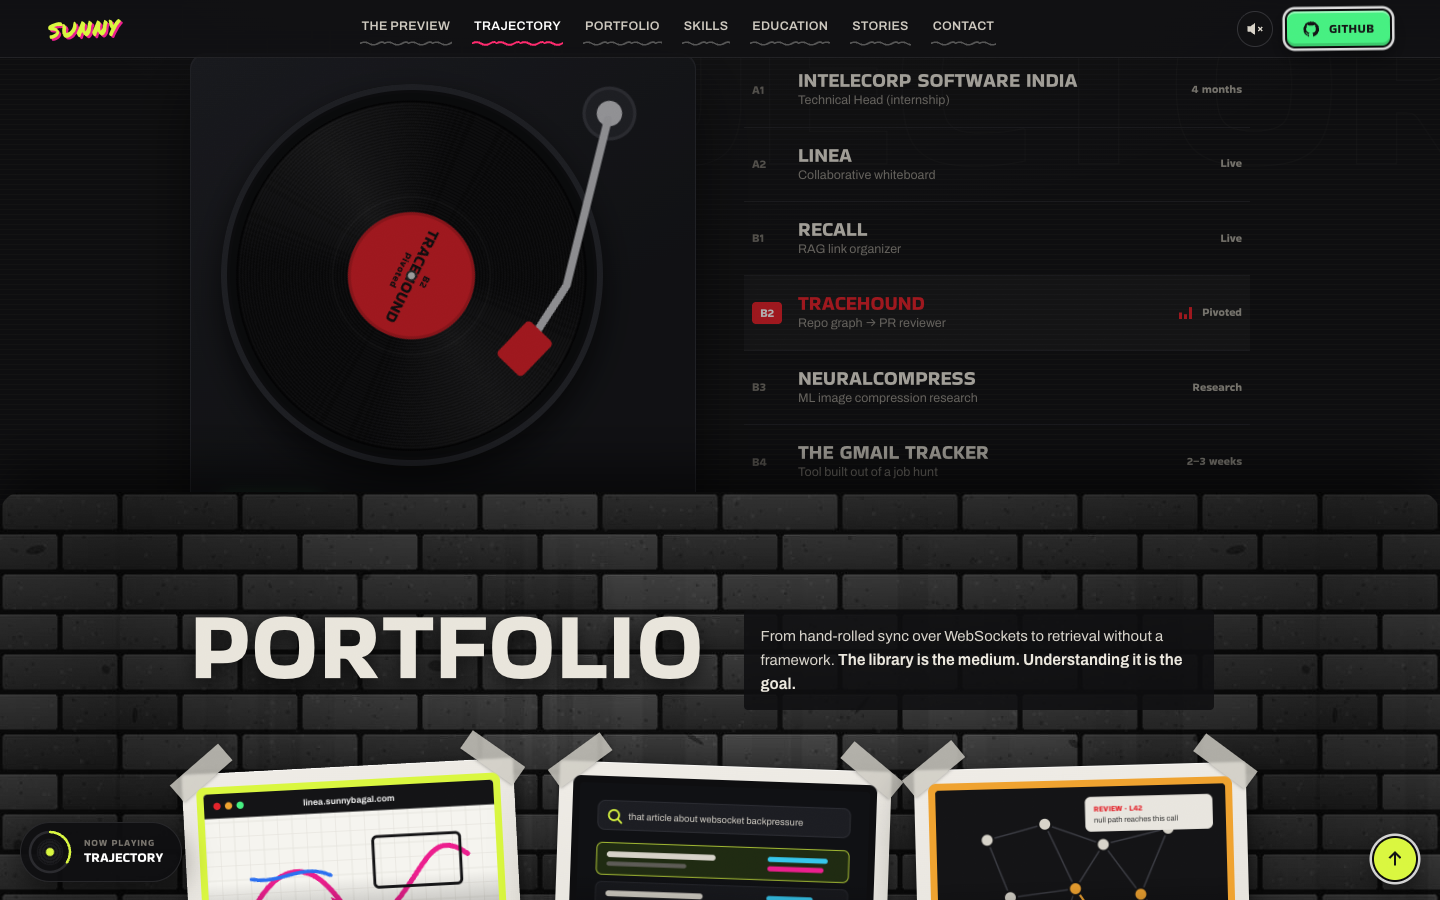
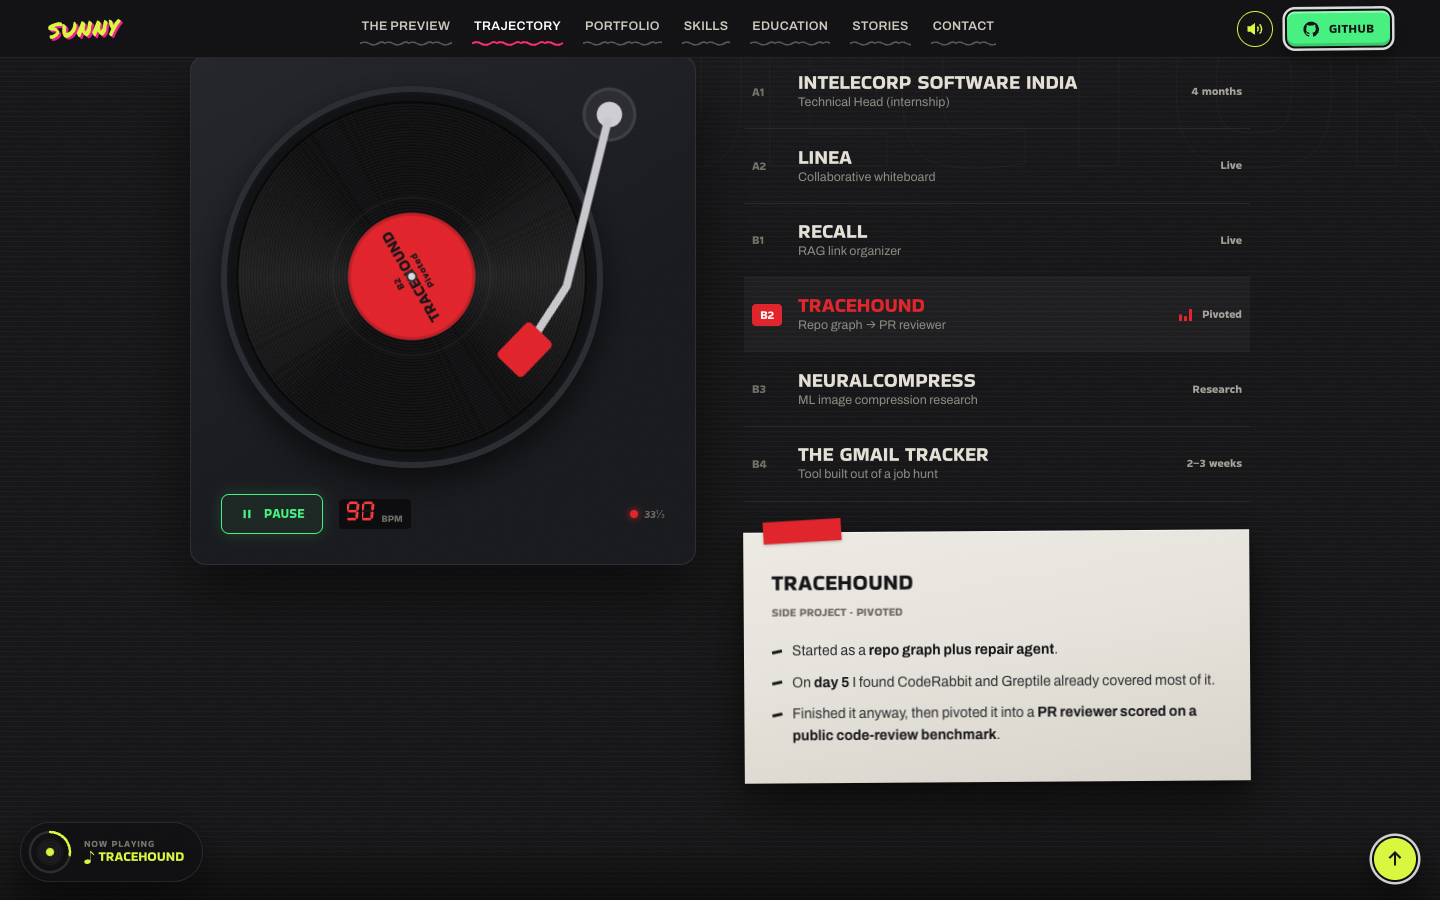
setlist: document the music, refresh screenshots

diff --git a/setlist/README.md b/setlist/README.md
@@ -29,7 +29,17 @@ Stack: Vite 8.3.5, TypeScript 5.9.3, Playwright 1.64.1 for screenshots. There's 
 | Artículos | Stories | Album sleeves with the disc sliding out on hover |
 | Contacto | Contact | Graffiti wall: 9 cans, 5 nozzles, size, pressure, drips / anti-drip, undo, clear, PNG export |
 
-Also: sticky stacked sections (each one slides over the last), the "Now playing" pill with scroll progress, active-section nav underline, back-to-top, and a sound toggle (boom-bap loop while the deck plays, spray hiss on the wall).
+Also: sticky stacked sections (each one slides over the last), the "Now playing" pill with scroll progress, active-section nav underline and back-to-top.
+
+## Music
+
+Every disc on the page has its own lo-fi jazz tune: the six turntable tracks, the seven records in the crate and the three singles. The tunes are generated live in [`src/ui/music.ts`](src/ui/music.ts), with Rhodes-style electric piano comping, a walking upright bass, brushed drums with a swung ride, a sparse vibraphone melody and vinyl crackle. Each disc's id picks its key, tempo, chord progression and melody seed, so a disc always plays the same tune. Nothing is sampled or licensed.
+
+- **Turntable:** plays the selected track while it spins and the deck is on screen.
+- **Crate:** a record plays once you pull one, while the crate is on screen.
+- **Singles:** play on hover or focus; tap to toggle on touch screens.
+- **Now playing:** the pill shows the tune's name.
+- **Muting:** sound is off until the speaker button is pressed or a disc is clicked. If you mute on purpose it stays muted.
 
 ## Content
 
